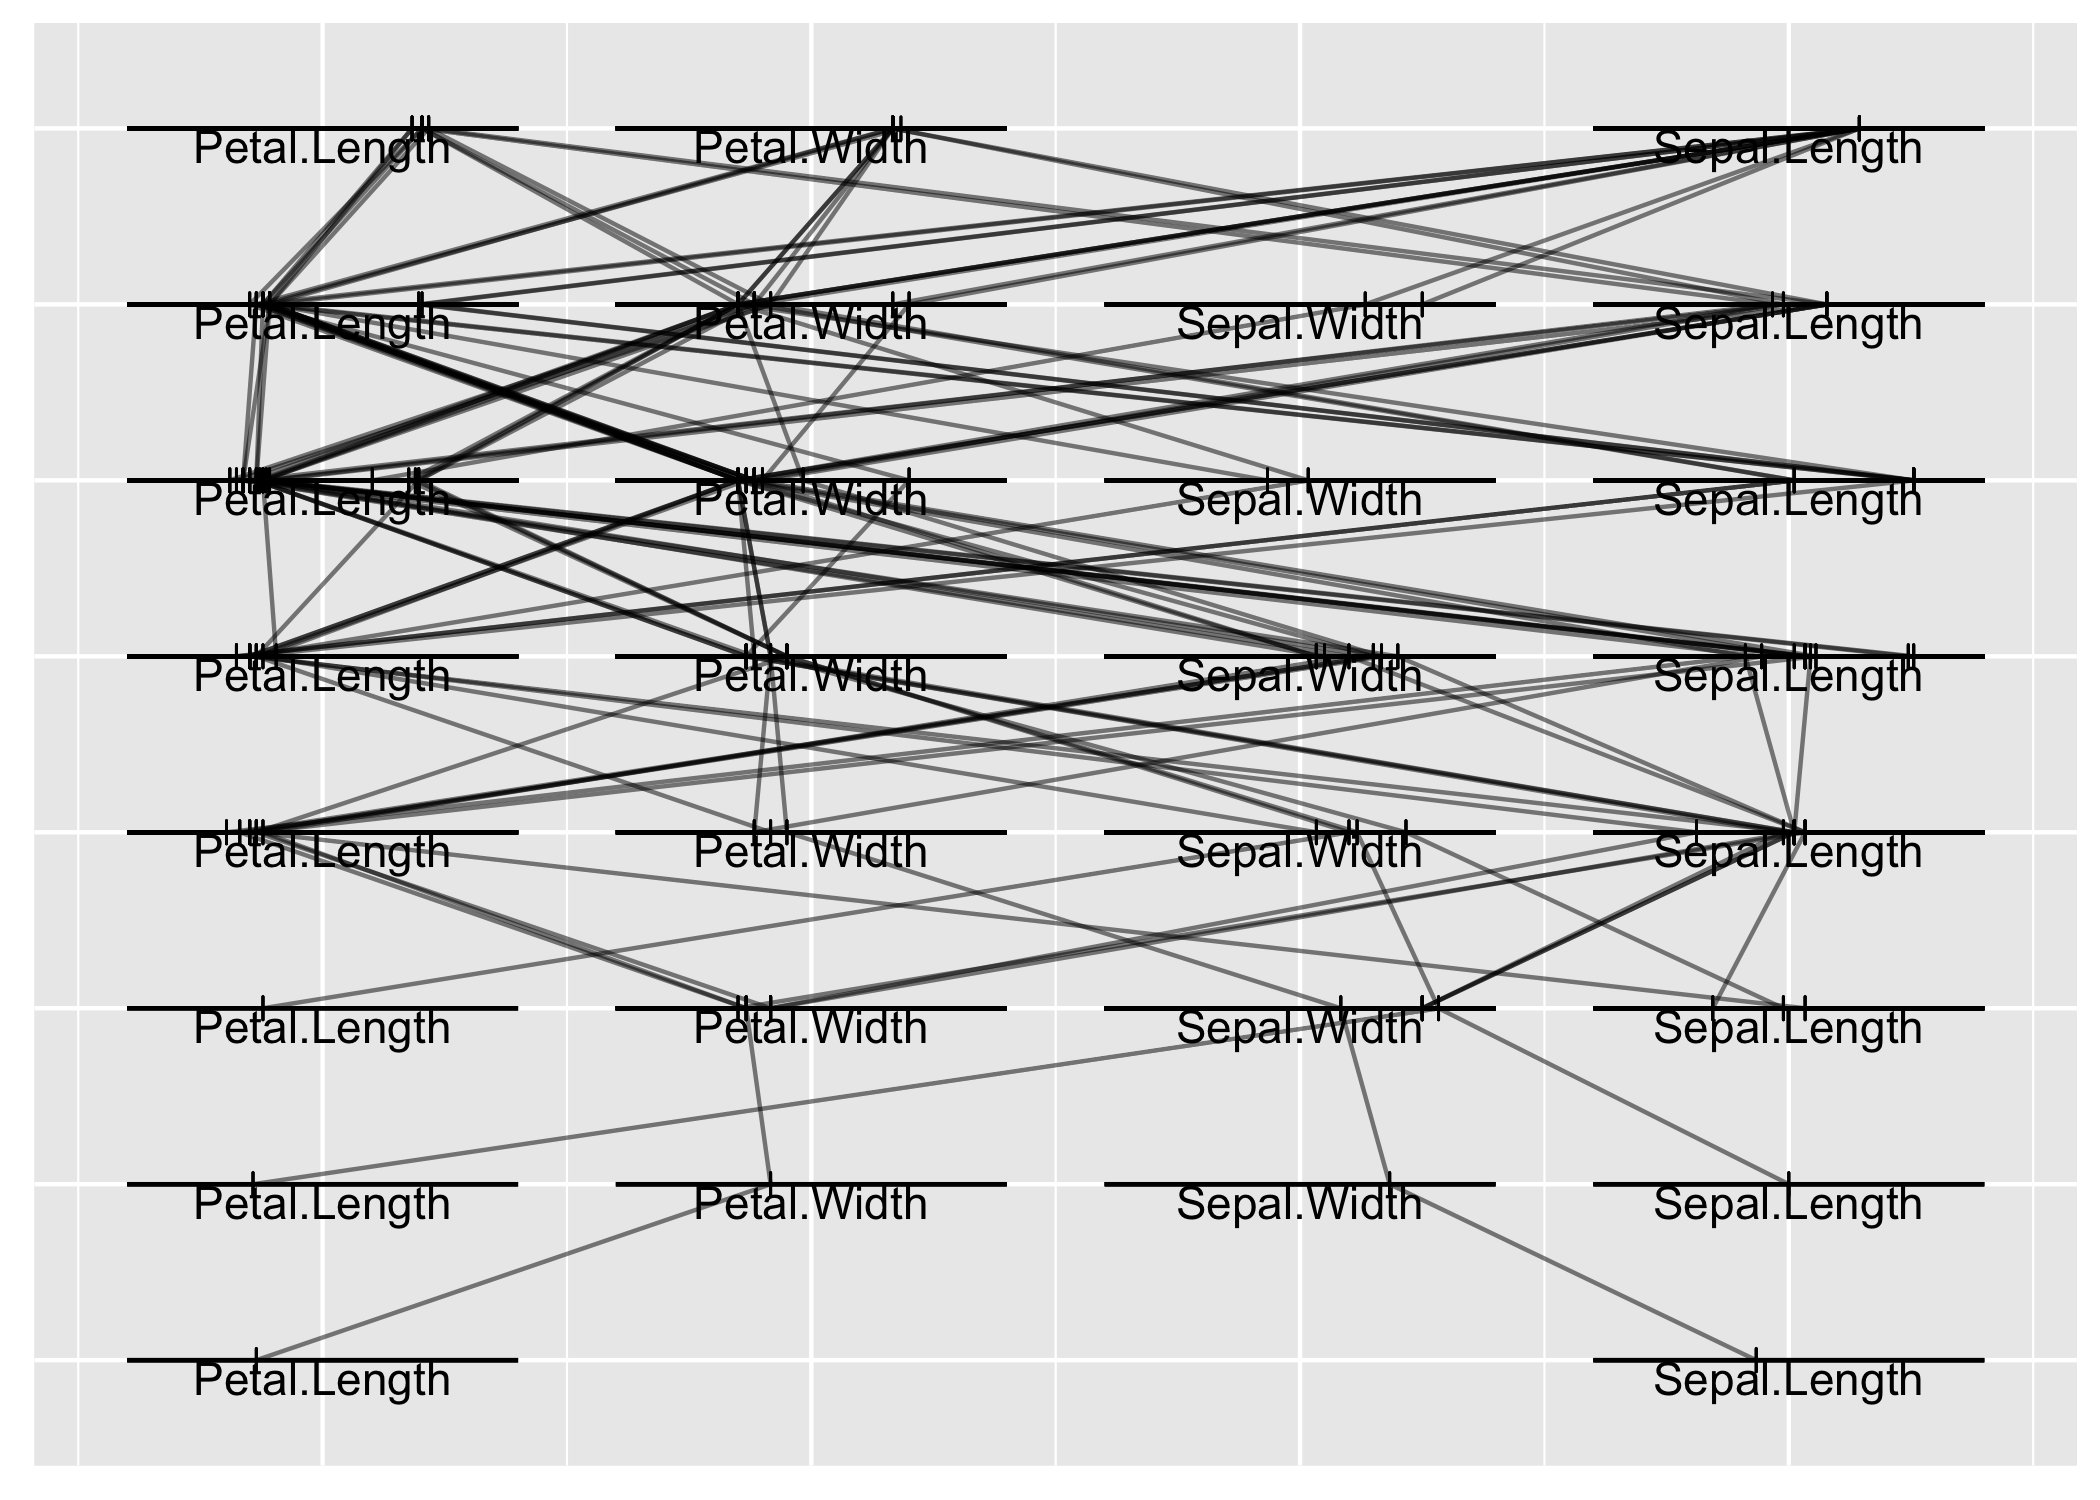
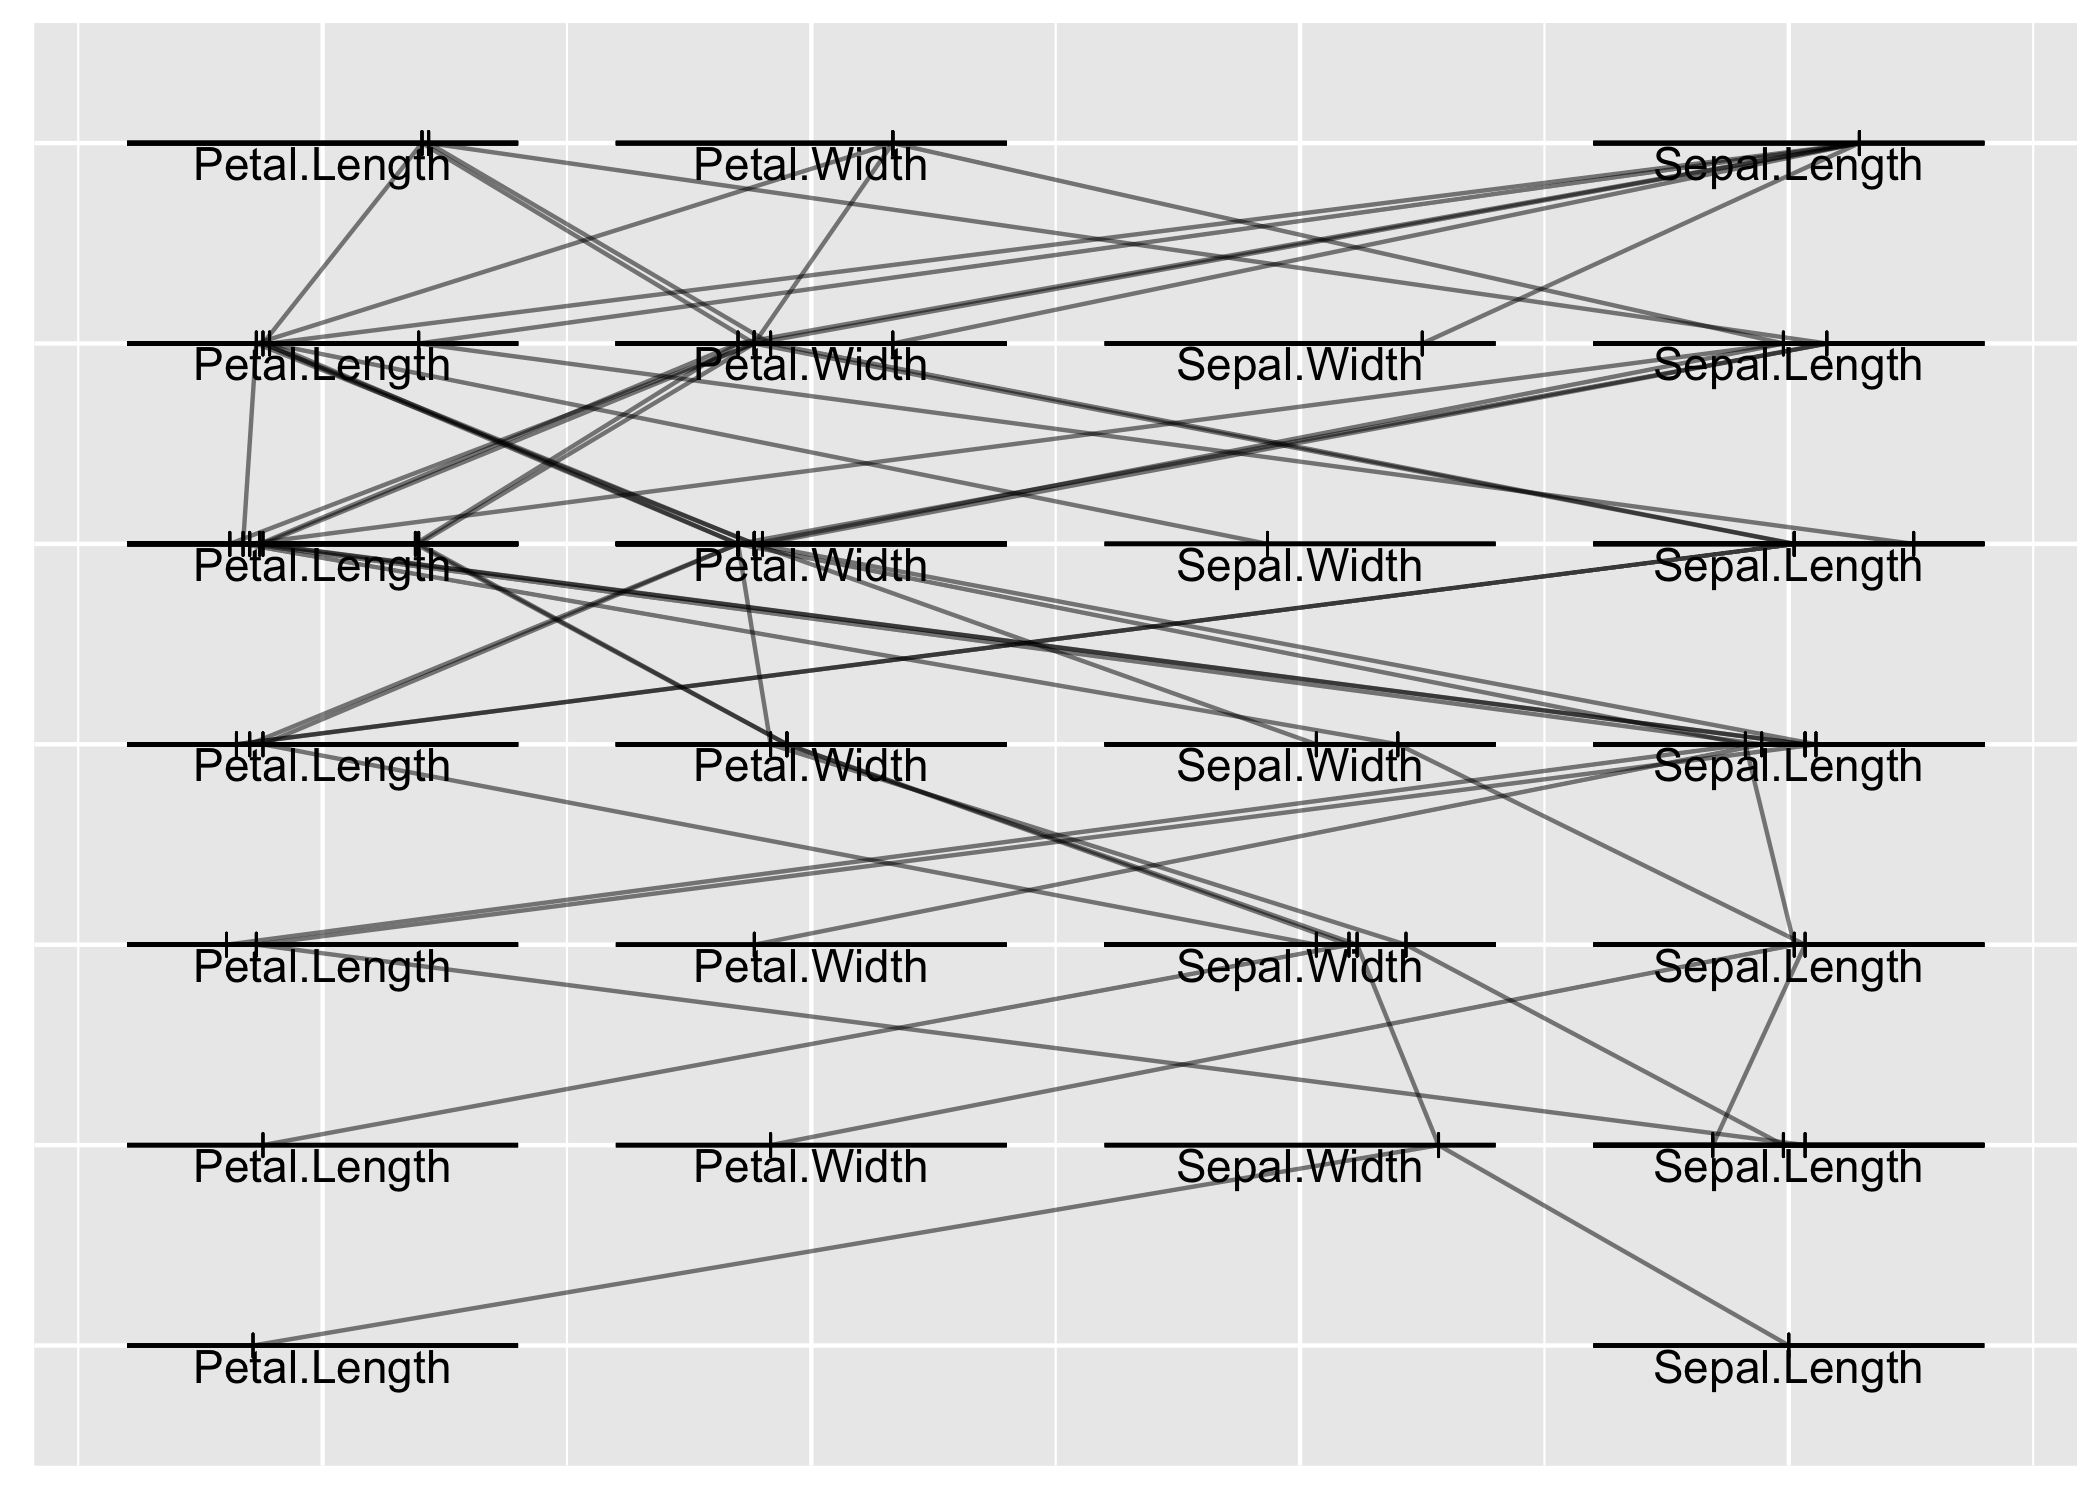
updating readme

Changed region(s): [[0.031, 0.0613, 0.9905, 0.9507]]

diff --git a/README.md b/README.md
@@ -1,7 +1,7 @@
 
 # TreeTracer
 
-🌲 🎄 🌳 🌲 🌳 🌴 🎄 🎄 🎄 🌳 🌳 🎋 🎄 🎄
+🌴 🌲 🎋 🎋 🌲 🌴 🎋 🎄 🌲 🎋 🌲 🎋 🌳 🎋
 
 The beginnings…
 
@@ -28,24 +28,24 @@ iris.rf <- randomForest::randomForest(Species ~ ., data = iris)
 trace_plot(
   rf = iris.rf,
   train = iris[, -5],
-  tree_ids = 1:25
+  tree_ids = 1:10
 )
 ```
 
-<img src="README_files/figure-gfm/unnamed-chunk-3-1.png" width="75%" style="display: block; margin: auto;" />
+![](README_files/figure-gfm/unnamed-chunk-3-1.png)<!-- -->
 
 ``` r
 # Adjust the width of horizontal feature lines and alpha of traces
 trace_plot(
   rf = iris.rf,
   train = iris[, -5],
-  tree_ids = 1:25,
+  tree_ids = 1:10,
   width = 0.5,
   alpha = 0.25
 )
 ```
 
-<img src="README_files/figure-gfm/unnamed-chunk-4-1.png" width="75%" style="display: block; margin: auto;" />
+![](README_files/figure-gfm/unnamed-chunk-4-1.png)<!-- -->
 
 ## References
 
